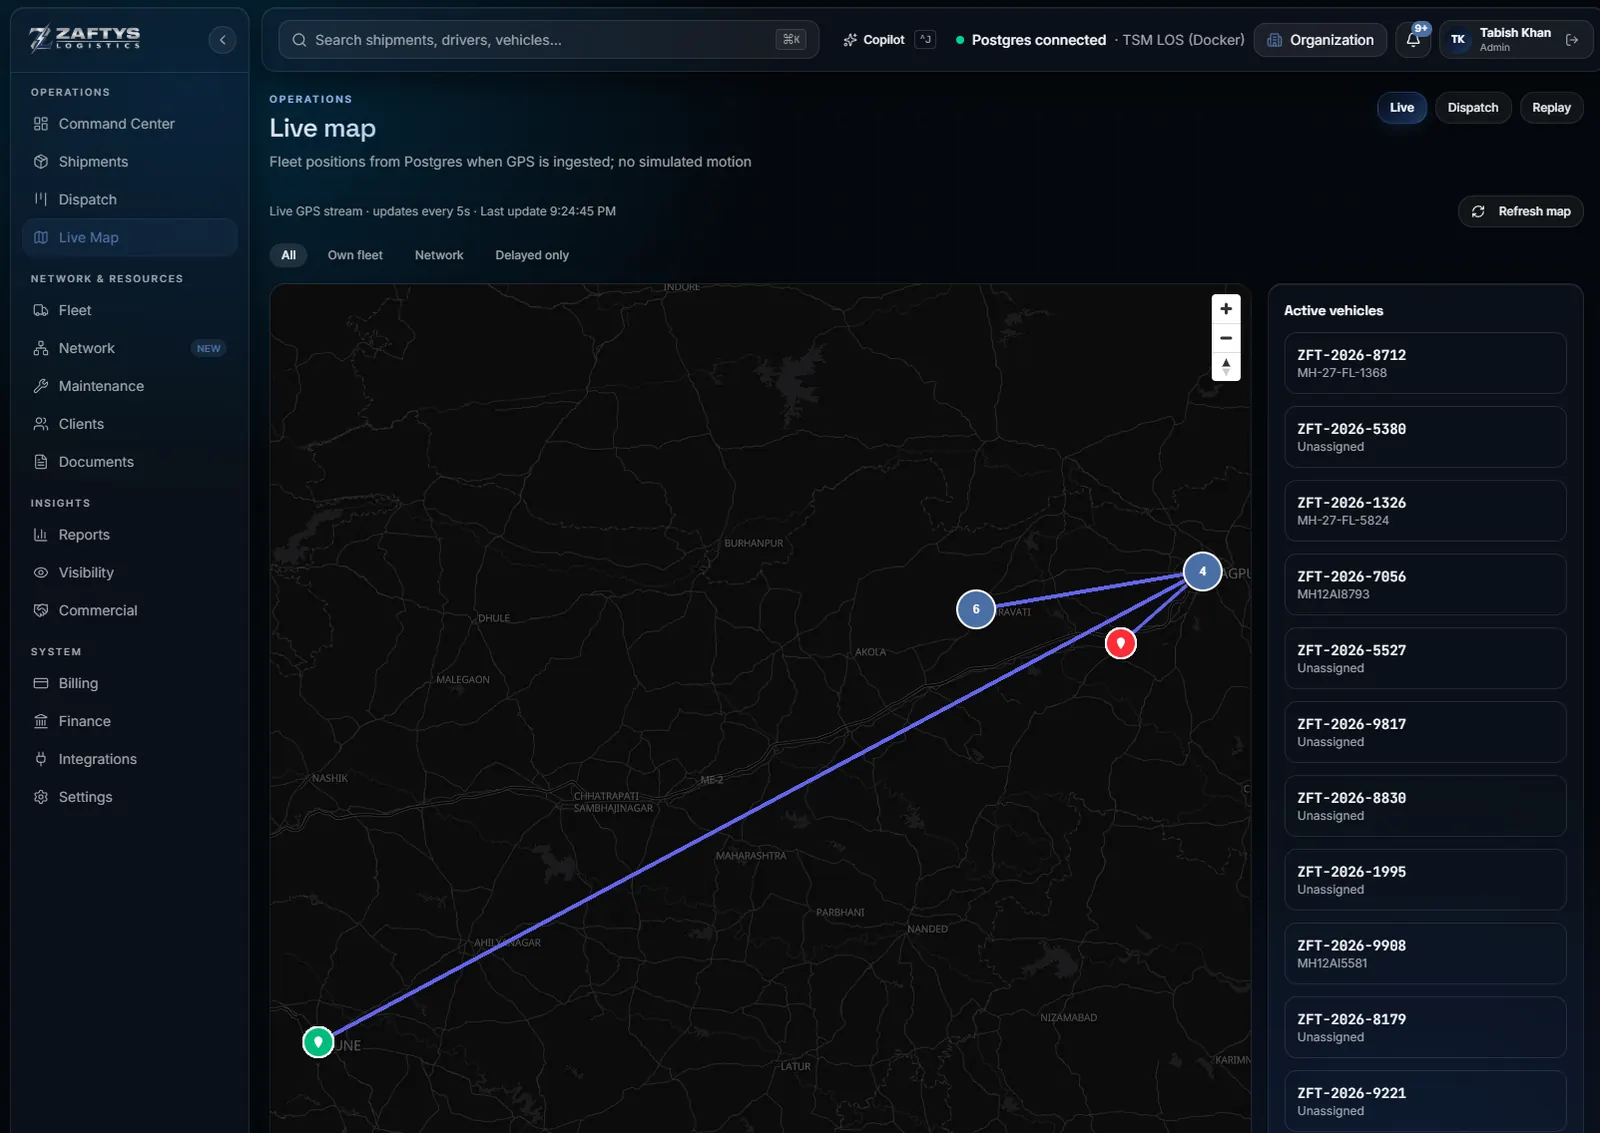
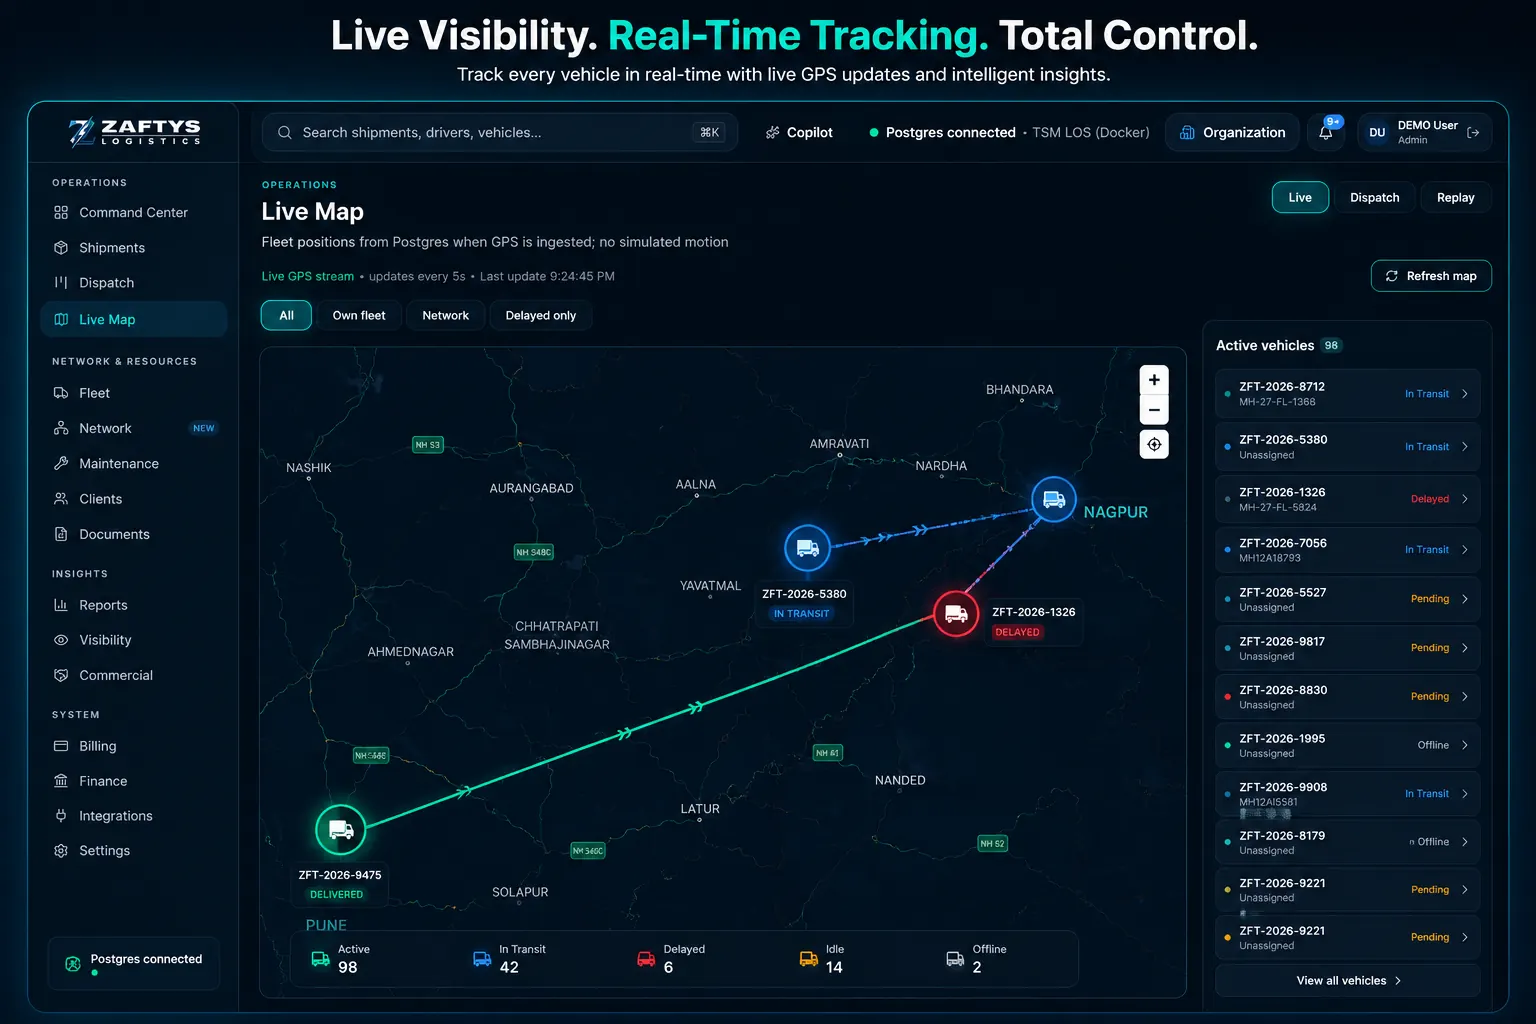
Replace TMS Shipments and Live Map screenshots with current product UI and stronger image SEO.

diff --git a/src/components/TmsScreensCarousel.tsx b/src/components/TmsScreensCarousel.tsx
@@ -1,6 +1,9 @@
 import { useEffect, useState } from "react";
 import { cn } from "@/lib/utils";
 
+const TMS_SCREEN_W = 1536;
+const TMS_SCREEN_H = 1024;
+
 const SCREENS = [
   {
     title: "Command Center",
@@ -14,13 +17,13 @@ const SCREENS = [
   },
   {
     title: "Shipments",
-    src: "/images/tms/shipments.webp",
-    alt: "ZAFTYS TMS Shipments list for active and pending trips",
+    src: "/images/tms/shipments.webp?v=2",
+    alt: "ZAFTYS TMS Shipments screen listing live loads, trip status, origin-destination lanes, and TranZfort marketplace updates",
   },
   {
     title: "Live Map",
-    src: "/images/tms/map.webp",
-    alt: "ZAFTYS TMS live dispatch map",
+    src: "/images/tms/map.webp?v=2",
+    alt: "ZAFTYS TMS Live Map with real-time GPS tracking of own-fleet and network vehicles across Indian lanes",
   },
   {
     title: "Network",
@@ -69,6 +72,9 @@ export function TmsScreensCarousel({ className }: TmsScreensCarouselProps) {
               key={screen.src}
               src={screen.src}
               alt={screen.alt}
+              width={TMS_SCREEN_W}
+              height={TMS_SCREEN_H}
+              decoding="async"
               loading={i === 0 ? "eager" : "lazy"}
               className={cn(
                 "absolute inset-0 h-full w-full object-cover object-top transition-opacity duration-700 ease-out",

diff --git a/src/lib/schema.ts b/src/lib/schema.ts
@@ -109,6 +109,35 @@ export const softwareApplicationSchema = {
   provider: organizationRef,
   url: `${BASE}/zaftys-tms`,
   installUrl: "https://app.zaftys.com",
+  screenshot: [
+    {
+      "@type": "ImageObject",
+      url: `${BASE}/images/tms/command-center.webp`,
+      caption: "ZAFTYS TMS Command Center with live KPIs and exception queue",
+    },
+    {
+      "@type": "ImageObject",
+      url: `${BASE}/images/tms/dispatch.webp`,
+      caption: "ZAFTYS TMS Dispatch board with backlog and TranZfort post actions",
+    },
+    {
+      "@type": "ImageObject",
+      url: `${BASE}/images/tms/shipments.webp`,
+      caption:
+        "ZAFTYS TMS Shipments screen listing live loads, trip status, origin-destination lanes, and TranZfort marketplace updates",
+    },
+    {
+      "@type": "ImageObject",
+      url: `${BASE}/images/tms/map.webp`,
+      caption:
+        "ZAFTYS TMS Live Map with real-time GPS tracking of own-fleet and network vehicles across Indian lanes",
+    },
+    {
+      "@type": "ImageObject",
+      url: `${BASE}/images/tms/network.webp`,
+      caption: "ZAFTYS TMS network view for partner capacity and lane coverage",
+    },
+  ],
 };
 
 export const blogPageSchema = {
